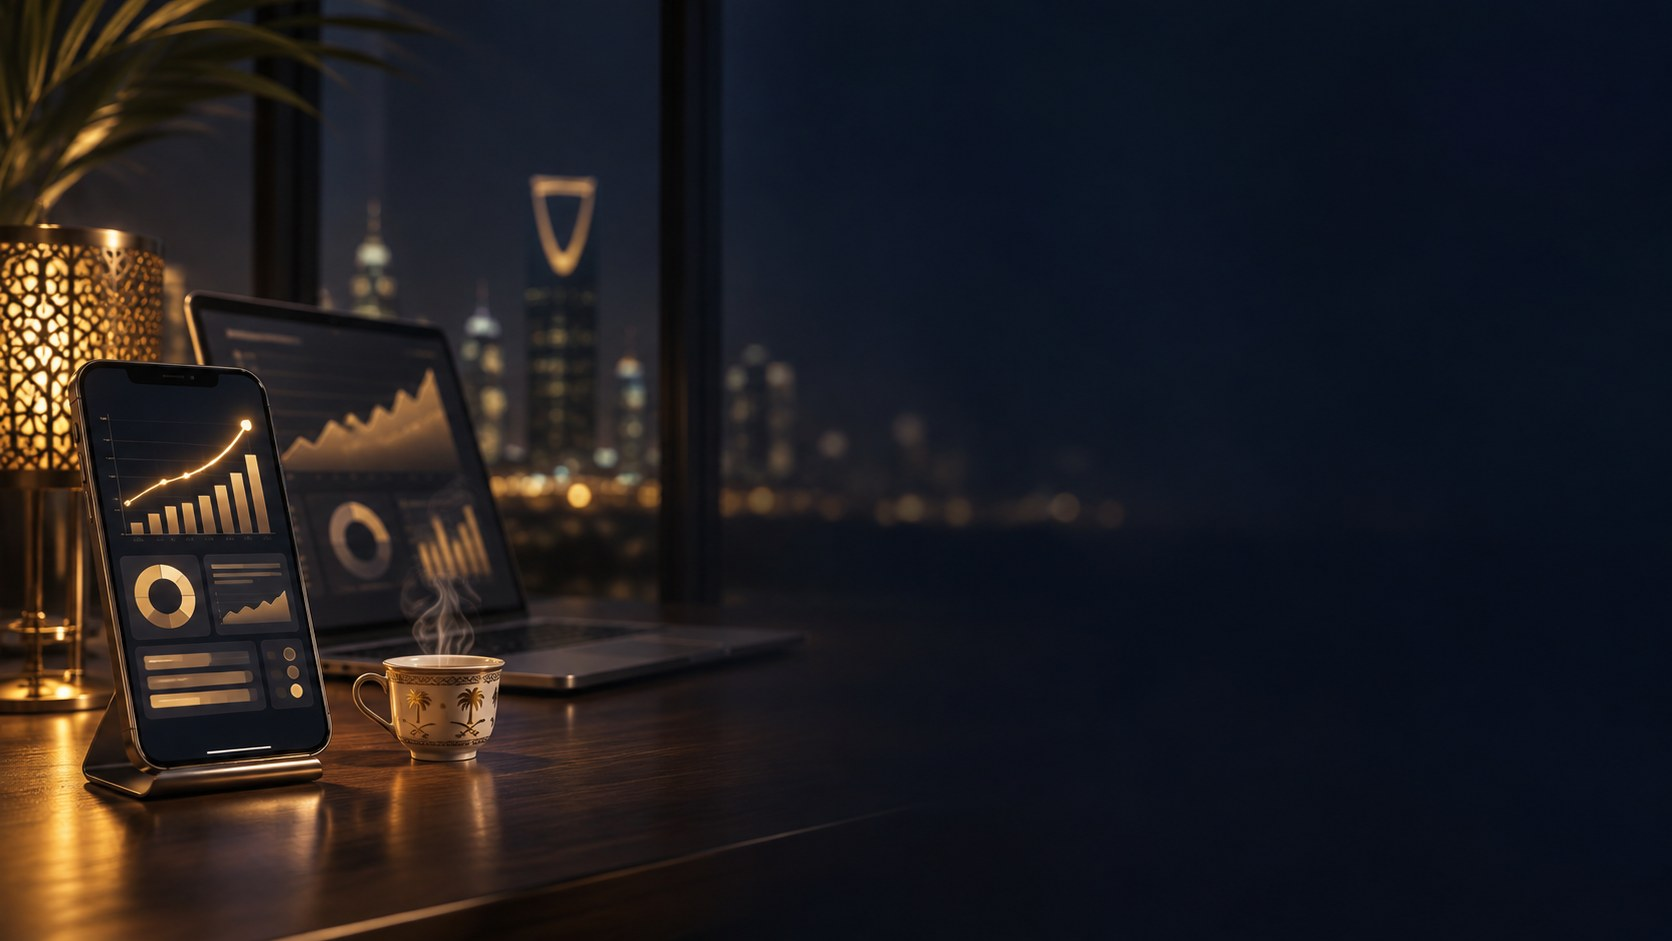
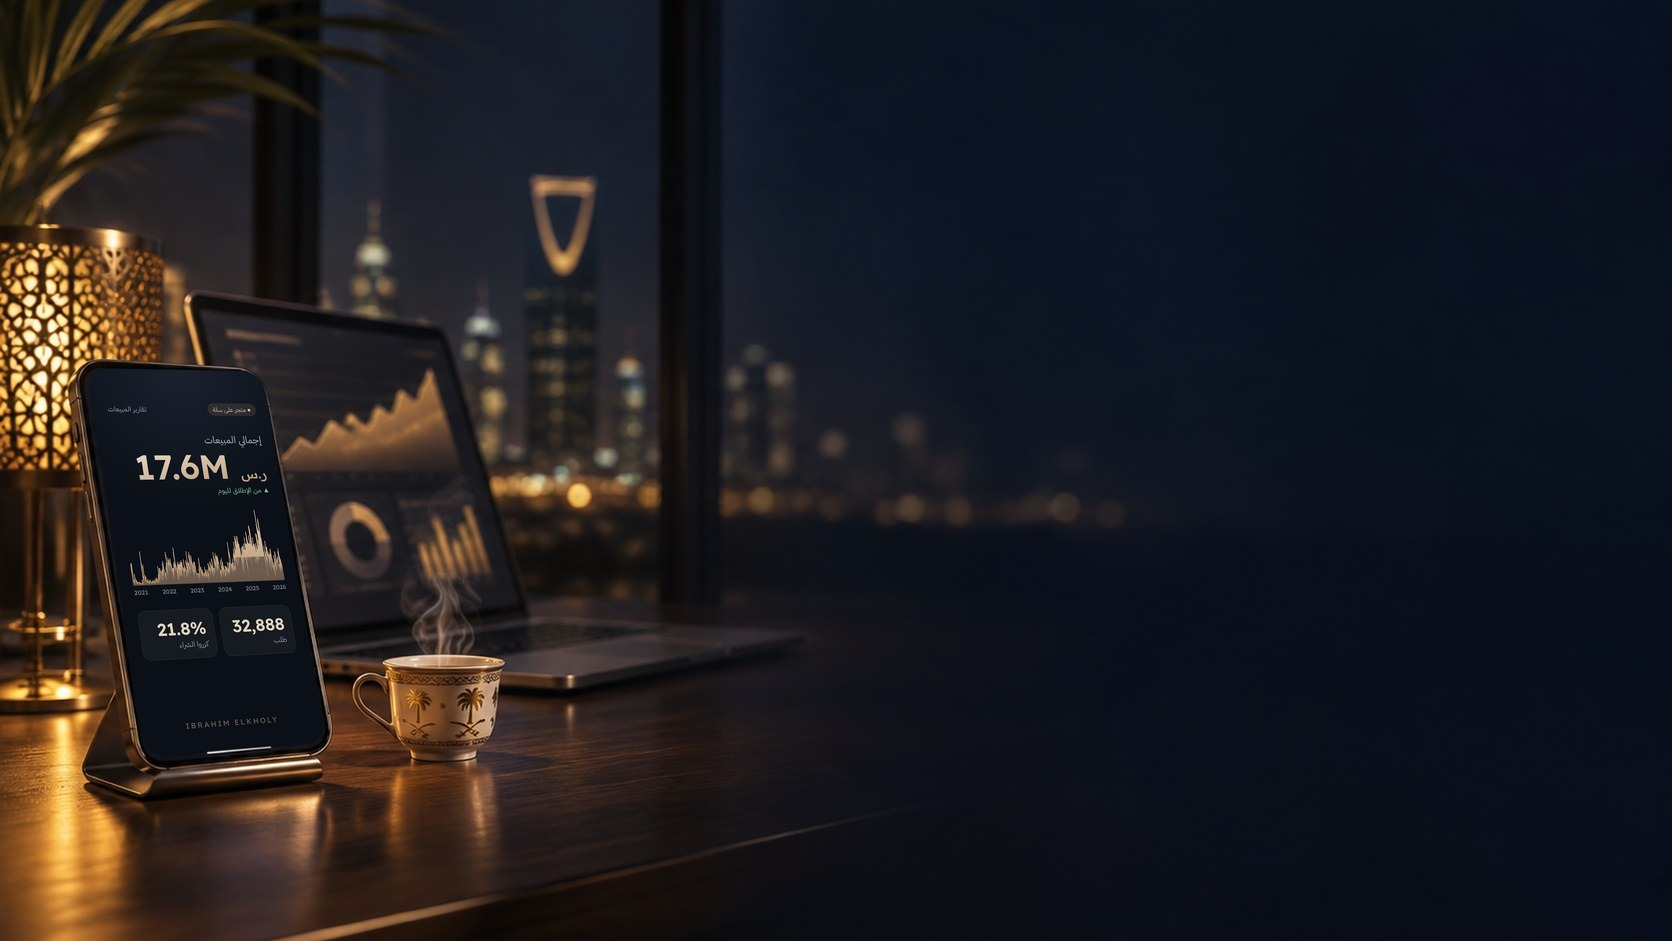
Hero phone shows real Salla sales; unify totals to Salla report (17.6M, 32,888 orders)
Claude-Session: https://claude.ai/code/session_01NNTZePW66kh3aYu32ZYfjj

Changed region(s): [[0.0622, 0.3698, 0.1866, 0.7705]]

diff --git a/index.html b/index.html
@@ -18,7 +18,7 @@
 <link rel="preconnect" href="https://fonts.gstatic.com" crossorigin>
 <link href="https://fonts.googleapis.com/css2?family=Jost:wght@200;300;400&family=El+Messiri:wght@500;600;700&family=Readex+Pro:wght@200;300;400;500&family=IBM+Plex+Sans+Arabic:wght@300;400;500&display=swap" rel="stylesheet">
 <link rel="preload" as="image" href="img/hero-bg.jpg">
-<link rel="stylesheet" href="assets/cine.css?v=3">
+<link rel="stylesheet" href="assets/cine.css?v=4">
 </head>
 <body data-page="home">
 
@@ -35,7 +35,7 @@
   <p class="rv d1">ادخل عالم الحملات اللي تتقاس بالريال، مو بالمشاهدات. كل شاشة هنا نتيجة حقيقية لمتجر سعودي.</p>
   <div class="h-soc rv d2"><a class="wa-btn wa" href="#">كلمني واتساب</a><a href="#work">شوف الشغل ↓</a></div>
  </div>
- <div class="h-stats rv d2"><div><b class="num">17.7M</b>ريال مبيعات متجر واحد</div><div><b class="num">12.9x</b>ROAS سناب</div><div><b class="num">35,208</b>طلب</div></div>
+ <div class="h-stats rv d2"><div><b class="num">17.6M</b>ريال مبيعات متجر واحد</div><div><b class="num">12.9x</b>ROAS سناب</div><div><b class="num">32,888</b>طلب</div></div>
 </section>
 
 <div class="giant"><span id="gname">IBRAHIM&nbsp;ELKHOLY</span></div>
@@ -64,7 +64,7 @@
    <p class="cap"><span class="big num">28x</span><span class="lbl">نمو المبيعات السنوية · 2020 ← 2025</span>براند أثاث دخل سلة بدون اسم ولا عملاء. مسكت تسويقه من أول يوم على سناب وجوجل وميتا وتيك توك، ووزعت الميزانية حسب مبيعات سلة الفعلية. من 200 ألف ريال في أول سنة لـ 5.73 مليون في 2025.</p>
   </div>
  </div>
- <details class="story rv"><summary>اقرأ القصة كاملة: التحدي، واللي سويته، والنتيجة <i>+</i></summary><div class="st-g"><div><h5><b>1</b>التحدي</h5><p>براند أثاث جديد دخل سلة في 2020 بدون اسم معروف ولا عملاء سابقين. أول سنة كاملة كانت 683 طلب وحوالي 200 ألف ريال. والأثاث منتج غالي، العميل ما يشتري من أول إعلان: يحتاج يشوف ويقارن ويثق قبل ما يطلب.</p></div><div><h5><b>2</b>اللي سويته</h5><ul><li>مسكت التسويق من أول يوم، وبنيت الحملات على 4 منصات: سناب وجوجل وميتا وتيك توك.</li><li>الميزانية تتوزع حسب المبيعات الفعلية في سلة، مو حسب أرقام المنصة. في 2026: سناب 33%، جوجل 32%، ميتا 18%، تيك توك 17%.</li><li>سناب صار أقوى قناة: 3,342 عملية شراء من يناير لسبتمبر 2026، وROAS 12.9x حسب المنصة.</li><li>متابعة الطلبات تحت التنفيذ بتنبيهات تأخير، عشان ما يضيع طلب ولا يزعل عميل.</li><li>تقرير كل أسبوع بالإنفاق والطلبات والعائد من كل منصة.</li></ul></div><div><h5><b>3</b>النتيجة</h5><p>المبيعات السنوية كبرت 28 ضعف: من 200 ألف ريال في 2020 لـ 5.73 مليون ريال صافي و10,548 طلب في 2025، بنمو 126% عن 2024. وإجمالي المبيعات من الإطلاق تجاوز 17 مليون ريال و34 ألف طلب.</p></div></div></details>
+ <details class="story rv"><summary>اقرأ القصة كاملة: التحدي، واللي سويته، والنتيجة <i>+</i></summary><div class="st-g"><div><h5><b>1</b>التحدي</h5><p>براند أثاث جديد دخل سلة في 2020 بدون اسم معروف ولا عملاء سابقين. أول سنة كاملة كانت 683 طلب وحوالي 200 ألف ريال. والأثاث منتج غالي، العميل ما يشتري من أول إعلان: يحتاج يشوف ويقارن ويثق قبل ما يطلب.</p></div><div><h5><b>2</b>اللي سويته</h5><ul><li>مسكت التسويق من أول يوم، وبنيت الحملات على 4 منصات: سناب وجوجل وميتا وتيك توك.</li><li>الميزانية تتوزع حسب المبيعات الفعلية في سلة، مو حسب أرقام المنصة. في 2026: سناب 33%، جوجل 32%، ميتا 18%، تيك توك 17%.</li><li>سناب صار أقوى قناة: 3,342 عملية شراء من يناير لسبتمبر 2026، وROAS 12.9x حسب المنصة.</li><li>متابعة الطلبات تحت التنفيذ بتنبيهات تأخير، عشان ما يضيع طلب ولا يزعل عميل.</li><li>تقرير كل أسبوع بالإنفاق والطلبات والعائد من كل منصة.</li></ul></div><div><h5><b>3</b>النتيجة</h5><p>المبيعات السنوية كبرت 28 ضعف: من 200 ألف ريال في 2020 لـ 5.73 مليون ريال صافي و10,548 طلب في 2025، بنمو 126% عن 2024. وإجمالي المبيعات من الإطلاق تجاوز 17.5 مليون ريال وحوالي 33 ألف طلب.</p></div></div></details>
 </section>
 
 <div class="line"></div>
@@ -118,8 +118,8 @@
 <div class="line"></div>
 
 <section class="stats">
- <div class="rv"><b>17.7M</b><span>ريال مبيعات متجر الأثاث من الإطلاق</span></div>
- <div class="rv d1"><b>35,208</b><span>طلب</span></div>
+ <div class="rv"><b>17.6M</b><span>ريال مبيعات متجر الأثاث من الإطلاق</span></div>
+ <div class="rv d1"><b>32,888</b><span>طلب</span></div>
  <div class="rv d2"><b>8.0x</b><span>ROAS 2026</span></div>
  <div class="rv d2"><b>4</b><span>منصات إعلانية</span></div>
 </section>
@@ -135,6 +135,6 @@
 
 <div class="lb-box" id="lbx"><img alt=""></div>
 
-<script src="assets/cine.js?v=3"></script>
+<script src="assets/cine.js?v=4"></script>
 </body>
 </html>

diff --git a/assets/site.js b/assets/site.js
@@ -17,7 +17,7 @@ const BRANDS=[
   sub:"براند أثاث جديد مسكت تسويقه من أول يوم، وكبر سنة بعد سنة لين صار من أقوى المتاجر في مجاله على سلة.",
   ch:"براند أثاث جديد دخل سلة في 2020 بدون اسم معروف ولا عملاء سابقين. أول سنة كاملة كانت 683 طلب وحوالي 200 ألف ريال. والأثاث منتج غالي، العميل ما يشتري من أول إعلان: يحتاج يشوف ويقارن ويثق قبل ما يطلب.",
   did:["مسكت التسويق من أول يوم، وبنيت الحملات على 4 منصات: سناب وجوجل وميتا وتيك توك.", "الميزانية تتوزع حسب المبيعات الفعلية في سلة، مو حسب أرقام المنصة. في 2026: سناب 33%، جوجل 32%، ميتا 18%، تيك توك 17%.", "سناب صار أقوى قناة: 3,342 عملية شراء من يناير لسبتمبر 2026، وROAS 12.9x حسب المنصة.", "متابعة الطلبات تحت التنفيذ بتنبيهات تأخير، عشان ما يضيع طلب ولا يزعل عميل.", "تقرير كل أسبوع بالإنفاق والطلبات والعائد من كل منصة."],
-  res:"المبيعات السنوية كبرت 28 ضعف: من 200 ألف ريال في 2020 لـ 5.73 مليون ريال صافي و10,548 طلب في 2025، بنمو 126% عن 2024. وإجمالي المبيعات من الإطلاق تجاوز 17 مليون ريال و34 ألف طلب.",
+  res:"المبيعات السنوية كبرت 28 ضعف: من 200 ألف ريال في 2020 لـ 5.73 مليون ريال صافي و10,548 طلب في 2025، بنمو 126% عن 2024. وإجمالي المبيعات من الإطلاق تجاوز 17.5 مليون ريال وحوالي 33 ألف طلب.",
   k:[["4.1M","ر.س","مبيعات يناير – سبتمبر 2026"],["6,910","","طلب في نفس الفترة"],["8.0x","","ROAS (مبيعات ÷ إنفاق)"],["12.9x","","ROAS سناب حسب المنصة"]],
   p:[["snap-overview.jpg","سناب: ملخص أداء الحساب في 2026"],["salla-2025.jpg","سلة: مبيعات وطلبات 2025"],["snap-table.jpg","سناب: الحملات مرتبة حسب ROAS"],["snap-mobile.jpg","متابعة الحملات يوميًا من الجوال"]]},
  {c:"c2",lbl:"عسل وعطارة · متجر على سلة · نوفمبر 2025 – يناير 2026",h:'أكثر من <span class="num">100K</span> ريال مبيعات في الشهر',

diff --git a/assets/cine.js b/assets/cine.js
@@ -4,7 +4,7 @@ document.getElementById("yr").textContent=new Date().getFullYear();
 const hdr=document.getElementById("top"),hbg=document.getElementById("hbg"),gn=document.getElementById("gname");
 const red=matchMedia("(prefers-reduced-motion: reduce)").matches;
 function sc(){const y=scrollY;hdr.classList.toggle("s",y>20);
- if(!red){hbg.style.transform=`scale(1.1) translateY(${y*.25}px)`;gn.style.setProperty("--x",`${Math.max(-40,Math.min(40,(innerHeight-y)*.05))}px`)}}
+ if(!red){hbg.style.transform=`scale(1.04) translateY(${y*.25}px)`;gn.style.setProperty("--x",`${Math.max(-40,Math.min(40,(innerHeight-y)*.05))}px`)}}
 addEventListener("scroll",sc,{passive:true});sc();
 const io=new IntersectionObserver(es=>es.forEach(e=>{if(e.isIntersecting){e.target.classList.add("in");io.unobserve(e.target)}}),{threshold:.15});
 document.querySelectorAll(".rv").forEach(el=>io.observe(el));

diff --git a/assets/cine.css b/assets/cine.css
@@ -19,7 +19,7 @@ nav a:hover{color:var(--gold2)}
 
 /* hero */
 .hero{position:relative;min-height:100vh;display:grid;grid-template-columns:1fr 1fr;align-content:center;padding:110px 7vw 9vw;overflow:hidden}
-.hero-bg{position:absolute!important;z-index:0!important;inset:-30px 0;background:url(../img/hero-bg.jpg) 20% center/cover;transform:scale(1.06)}
+.hero-bg{position:absolute!important;z-index:0!important;inset:-30px 0;background:url(../img/hero-bg.jpg) 0% center/cover;transform:scale(1.06);transform-origin:left center}
 .hero::after{content:"";position:absolute;z-index:1;inset:0;background:linear-gradient(270deg,rgba(11,16,24,.92) 0%,rgba(11,16,24,.6) 38%,rgba(11,16,24,0) 65%),linear-gradient(transparent 72%,var(--bg))}
 .hero>*{position:relative;z-index:2}
 .h-txt h1{font-family:"El Messiri",serif;font-weight:600;line-height:1.05}

diff --git a/contact.html b/contact.html
@@ -78,6 +78,6 @@
   <symbol id="wa-i" viewBox="0 0 24 24"><path d="M12.04 2C6.58 2 2.13 6.45 2.13 11.91c0 1.75.46 3.45 1.32 4.95L2.05 22l5.25-1.38c1.45.79 3.08 1.21 4.74 1.21 5.46 0 9.91-4.45 9.91-9.91C21.95 6.45 17.5 2 12.04 2zm5.8 14.03c-.24.68-1.42 1.3-1.95 1.35-.5.05-.97.23-3.27-.68-2.77-1.09-4.52-3.92-4.66-4.1-.13-.18-1.11-1.48-1.11-2.82 0-1.34.7-2 .95-2.27.25-.27.54-.34.72-.34h.52c.17 0 .39-.06.61.47.24.56.79 1.93.86 2.07.07.14.11.3.02.48-.09.18-.14.3-.27.46-.14.16-.29.36-.41.48-.14.14-.28.29-.12.56.16.27.71 1.17 1.52 1.9 1.05.93 1.93 1.22 2.2 1.36.27.14.43.11.59-.07.16-.18.68-.79.86-1.07.18-.27.36-.23.61-.14.25.09 1.59.75 1.86.89.27.14.45.2.52.32.07.11.07.66-.17 1.33z"/></symbol>
 </svg>
 
-<script src="assets/site.js?v=3"></script>
+<script src="assets/site.js?v=4"></script>
 </body>
 </html>

diff --git a/results.html b/results.html
@@ -77,6 +77,6 @@
   <symbol id="wa-i" viewBox="0 0 24 24"><path d="M12.04 2C6.58 2 2.13 6.45 2.13 11.91c0 1.75.46 3.45 1.32 4.95L2.05 22l5.25-1.38c1.45.79 3.08 1.21 4.74 1.21 5.46 0 9.91-4.45 9.91-9.91C21.95 6.45 17.5 2 12.04 2zm5.8 14.03c-.24.68-1.42 1.3-1.95 1.35-.5.05-.97.23-3.27-.68-2.77-1.09-4.52-3.92-4.66-4.1-.13-.18-1.11-1.48-1.11-2.82 0-1.34.7-2 .95-2.27.25-.27.54-.34.72-.34h.52c.17 0 .39-.06.61.47.24.56.79 1.93.86 2.07.07.14.11.3.02.48-.09.18-.14.3-.27.46-.14.16-.29.36-.41.48-.14.14-.28.29-.12.56.16.27.71 1.17 1.52 1.9 1.05.93 1.93 1.22 2.2 1.36.27.14.43.11.59-.07.16-.18.68-.79.86-1.07.18-.27.36-.23.61-.14.25.09 1.59.75 1.86.89.27.14.45.2.52.32.07.11.07.66-.17 1.33z"/></symbol>
 </svg>
 
-<script src="assets/site.js?v=3"></script>
+<script src="assets/site.js?v=4"></script>
 </body>
 </html>

diff --git a/services.html b/services.html
@@ -94,6 +94,6 @@
   <symbol id="wa-i" viewBox="0 0 24 24"><path d="M12.04 2C6.58 2 2.13 6.45 2.13 11.91c0 1.75.46 3.45 1.32 4.95L2.05 22l5.25-1.38c1.45.79 3.08 1.21 4.74 1.21 5.46 0 9.91-4.45 9.91-9.91C21.95 6.45 17.5 2 12.04 2zm5.8 14.03c-.24.68-1.42 1.3-1.95 1.35-.5.05-.97.23-3.27-.68-2.77-1.09-4.52-3.92-4.66-4.1-.13-.18-1.11-1.48-1.11-2.82 0-1.34.7-2 .95-2.27.25-.27.54-.34.72-.34h.52c.17 0 .39-.06.61.47.24.56.79 1.93.86 2.07.07.14.11.3.02.48-.09.18-.14.3-.27.46-.14.16-.29.36-.41.48-.14.14-.28.29-.12.56.16.27.71 1.17 1.52 1.9 1.05.93 1.93 1.22 2.2 1.36.27.14.43.11.59-.07.16-.18.68-.79.86-1.07.18-.27.36-.23.61-.14.25.09 1.59.75 1.86.89.27.14.45.2.52.32.07.11.07.66-.17 1.33z"/></symbol>
 </svg>
 
-<script src="assets/site.js?v=3"></script>
+<script src="assets/site.js?v=4"></script>
 </body>
 </html>
